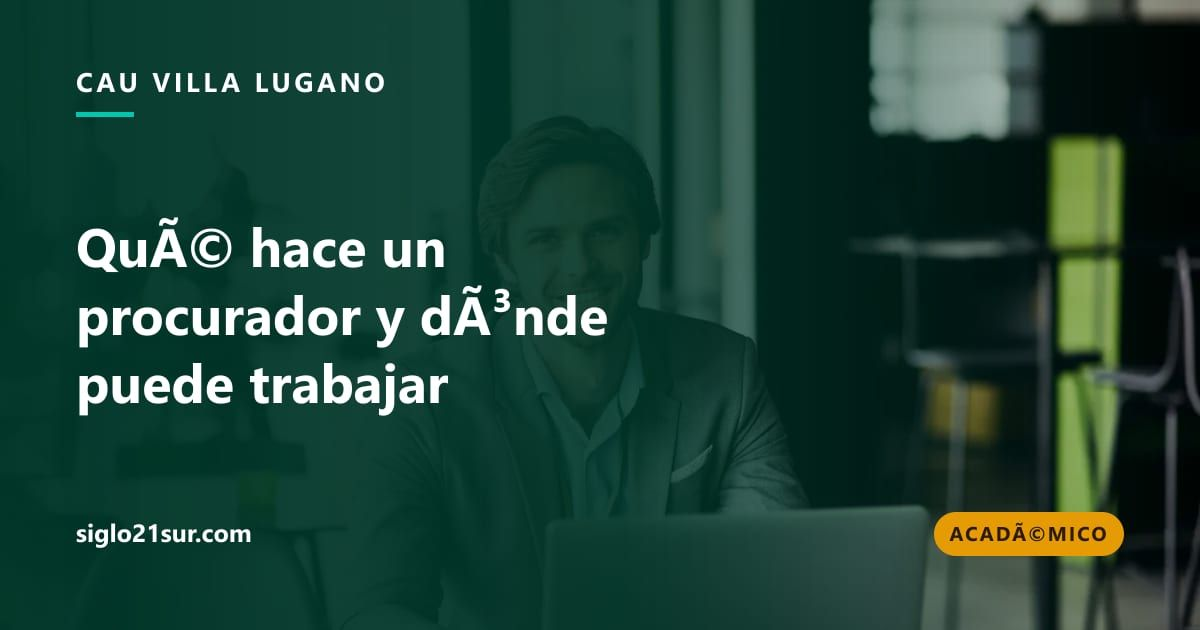
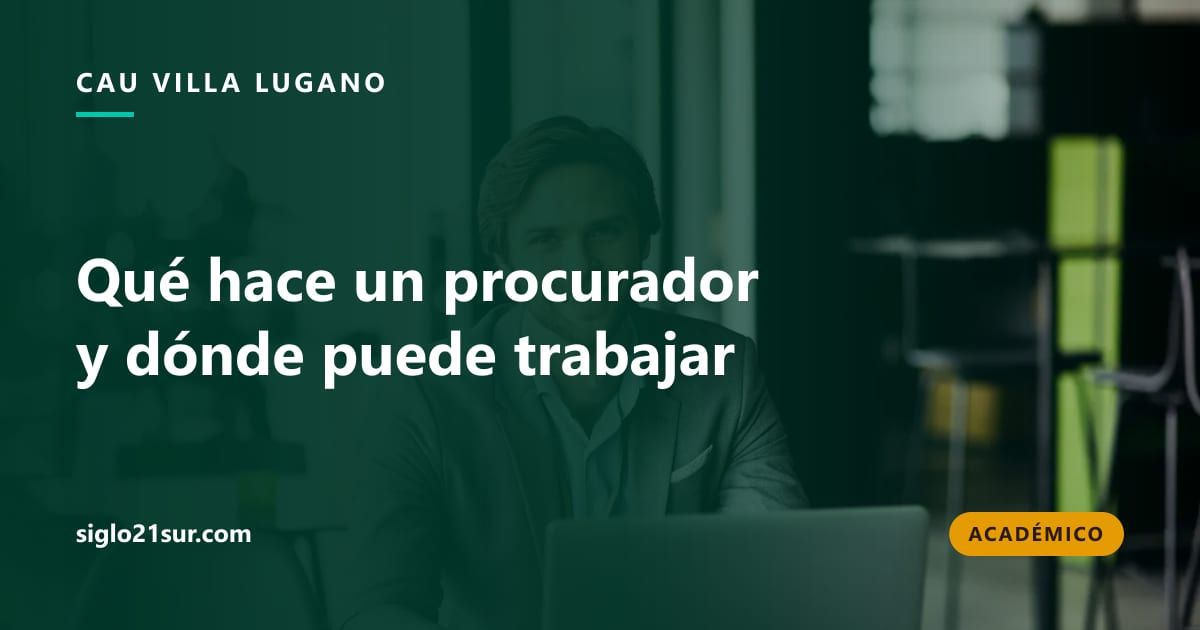
fix: corregir codificación de novedades editoriales

Changed region(s): [[0.0617, 0.3317, 0.6475, 0.6635], [0.7708, 0.8143, 0.925, 0.9048]]

diff --git a/referencias/2026-09-25-codificacion-novedades.md b/referencias/2026-09-25-codificacion-novedades.md
@@ -1,0 +1,3 @@
+- https://www.siglo21sur.com/novedades/articulo/que-hace-un-procurador - artículo publicado; se verificaron título, cuerpo y metadatos tras corregir la codificación.
+- https://www.siglo21sur.com/novedades/articulo/que-hace-un-administrador-cloud - segunda novedad afectada por el mismo SQL; se verificó en producción.
+- https://www.siglo21sur.com/novedades/1 - listado público; se comprobó que muestra los títulos corregidos.
